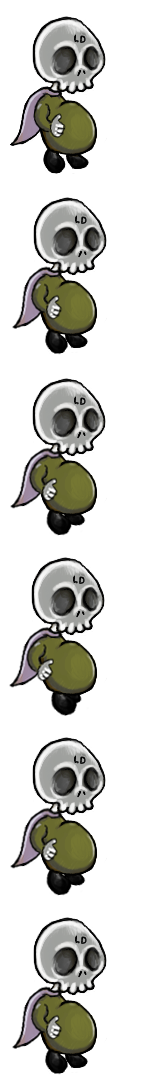
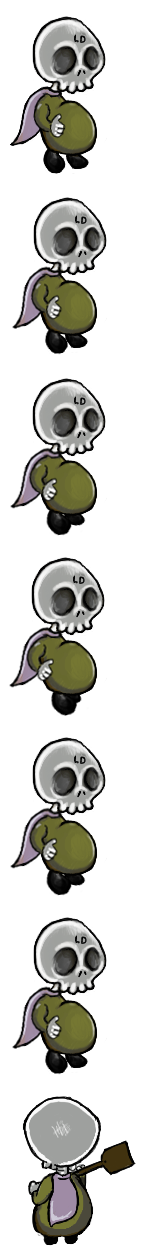
heart not working, but lost soul is... odd

diff --git a/src/game-scene.js b/src/game-scene.js
@@ -6,7 +6,9 @@ var Player = require('./player');
 var Enemy = require('./enemy');
 var MapGen = require('./mapgen');
 var Grave = require('./grave');
+var Heart = require('./heart');
 var Zombie = require('./zombie');
+var LostSoul = require('./lost-soul');
 var Light = require('./light');
 
 var DigTimes = {
@@ -69,7 +71,7 @@ GameScene.prototype.onCreate = function(){
     this.graves = [];
 
     var grave;
-    var contents = ['heart', 'lostsoul', 'zombie', 'nothing'];
+    var contents = ['heart', 'lostsoul', /*'zombie', 'nothing'*/];
     for (var idx = 0; idx < 20; idx++){
         grave = new Grave(
             this.game,
@@ -112,6 +114,8 @@ GameScene.prototype.resolveZ = function(){
             this.sprites[idx].bringToTop();
         }
     }
+
+    if(this.heart) this.heart.bringToTop();
 };
 
 GameScene.prototype.onPlayerCaught = function(){
@@ -147,10 +151,17 @@ GameScene.prototype.getDigArea = function(){
 
 GameScene.prototype.openGrave = function(grave){
     grave.open();
-    if (grave.contents == "zombie"){
-        this.spawnZombie(grave); 
-    } else if (grave.contents == "heart"){
-        this.spawnHeart(grave);
+    console.log("--" + grave.contents + "--");
+    switch(grave.contents){
+        case "zombie":
+            this.spawnZombie(grave);
+            break;
+        case "heart":
+            this.spawnHeart(grave);
+            break;
+        case "lostsoul":
+            this.spawnLostSoul(grave);
+            break;
     }
 };
 
@@ -160,6 +171,19 @@ GameScene.prototype.spawnZombie = function(grave){
     zombie.setPosition(grave.x, grave.y + 100);
     this.sprites.push(zombie);
     this.game.add.existing(zombie);
+};
+
+GameScene.prototype.spawnLostSoul = function(grave){
+    var lostSoul = new LostSoul(this.game);
+    lostSoul.setTarget(this.enemy);
+    lostSoul.setPosition(grave.x, grave.y + 100);
+    this.sprites.push(lostSoul);
+    this.game.add.existing(lostSoul);
+};
+
+GameScene.prototype.spawnHeart = function(grave){
+    this.heart = new Heart(this.game, grave.x, grave.y);
+    this.game.add.existing(this.heart);
 };
 
 module.exports = GameScene;

diff --git a/src/lost-soul.js b/src/lost-soul.js
@@ -1,0 +1,60 @@
+var Phaser = require('phaser');
+
+var LostSoul = function(game){
+    Phaser.Sprite.call(this, game, 0, 0, 'lost-soul', 0);
+    game.physics.enable(this, Phaser.Physics.ARCADE);
+    this.scale.x = this.scale.y = this.baseScale = 0.6;
+    this.anchor.setTo(0.5, 0.5);
+    this.speed = 120;
+
+    this.animations.add('waft', [0, 1, 2, 3], 8, true);
+    this.play('waft');
+};
+
+LostSoul.prototype = Object.create(Phaser.Sprite.prototype);
+LostSoul.prototype.constructor = LostSoul;
+
+LostSoul.prototype.setPosition = function(x, y){
+    this.x = x;
+    this.y = y;
+};
+
+LostSoul.prototype.setTarget = function(obj){
+    this.target = obj;
+};
+
+LostSoul.prototype.update = function(){
+    this.updateSpeed();
+    this.checkOverlap();
+};
+
+LostSoul.prototype.updateSpeed = function(){
+    var delta = {
+        x: this.target.x - this.x,
+        y: this.target.y - this.y + 5
+    };
+
+    var total = Math.abs(delta.x) + Math.abs(delta.y);
+    var ratio = {
+        x: delta.x/total,
+        y: delta.y/total
+    };
+    this.body.velocity.x = this.speed * ratio.x;
+    this.body.velocity.y = this.speed * ratio.y;
+    if (ratio.x < 0){
+        this.scale.x = this.baseScale;
+    } else if(ratio.x > 0){
+        this.scale.x = -this.baseScale;
+    }
+};
+
+LostSoul.prototype.checkOverlap = function(){
+    if(this.overlap(this.target)){
+        this.target.speed *= 0.2;
+        if(!this.deathTimer){
+            this.deathTimer = this.game.time.events.add(5000, this.kill, this);
+        }
+    }
+};
+
+module.exports = LostSoul;

diff --git a/src/enemy.js b/src/enemy.js
@@ -5,6 +5,7 @@ var Enemy = function(game){
     game.physics.enable(this, Phaser.Physics.ARCADE);
     this.scale.x = this.scale.y = this.baseScale = 0.6;
     this.anchor.setTo(0.5, 0.5);
+    this.normalSpeed = 50;
     this.speed = 50;
 
     this.animations.add('walk', [0, 1, 2, 3, 4, 5], 8, true);
@@ -21,7 +22,7 @@ Enemy.prototype.setPosition = function(x, y){
 
 Enemy.prototype.setTarget = function(obj){
     this.target = obj;
-}
+};
 
 Enemy.prototype.update = function(){
     this.updateSpeed();
@@ -37,7 +38,7 @@ Enemy.prototype.updateSpeed = function(){
     var ratio = {
         x: delta.x/total,
         y: delta.y/total
-    }
+    };
     this.body.velocity.x = this.speed * ratio.x;
     this.body.velocity.y = this.speed * ratio.y;
 
@@ -46,6 +47,8 @@ Enemy.prototype.updateSpeed = function(){
     } else if(ratio.x < 0){
         this.scale.x = -this.baseScale;
     }
+
+    this.speed = this.normalSpeed;
 };
 
 module.exports = Enemy;

diff --git a/src/player.js b/src/player.js
@@ -16,7 +16,7 @@ var Player = function(game){
 
     this.animations.add('stand', [0], 12, true);
     this.animations.add('walk', [0, 1, 2, 3, 4, 5], 15, true);
-    this.animations.add('dig', [5], 12, true);
+    this.animations.add('dig', [6], 12, true);
     this.play('stand');
 
     this.scene = game.goScene;
@@ -136,10 +136,7 @@ Player.prototype.stopDig = function(){
 
 Player.prototype.finishDig = function(){
     if(this.digArea.type == "grave"){
-        this.digArea.grave.open();
-        if (this.digArea.grave.contents == "zombie"){
-            this.scene.spawnZombie(this.digArea.grave);
-        }
+        this.scene.openGrave(this.digArea.grave);
     }
     this.stopDig();
 };

diff --git a/src/heart.js b/src/heart.js
@@ -1,0 +1,18 @@
+var Phaser = require('phaser');
+
+var Heart = function(game, x, y){
+    Phaser.Sprite.call(this, game, x, y, 'heart', 0);
+    this.game = game;
+    this.anchor.set(0.5, 0.5);
+    this.tween = game.add.tween(this).to({y: y-100}, 1200, Phaser.Easing.Quadratic.Out, false);
+    this.tween.onComplete.add(function(){
+        this.kill();
+        this.destroy();
+    }, this);
+    this.tween.start();
+};
+
+Heart.prototype = Object.create(Phaser.Sprite.prototype);
+Heart.prototype.constructor = Heart;
+
+module.exports = Heart;

diff --git a/src/assets.js b/src/assets.js
@@ -12,7 +12,9 @@ var assets = {
         ['player', 'img/protagonist_walk.png', 144, 180],
         ['enemy', 'img/villain_walk.png', 144, 180],
         ['zombie', 'img/zombie.png', 96, 163],
+        ['lost-soul', 'img/lost-soul.png', 120, 160],
         ['grave', 'img/grave.png', 195, 319],
+        ['heart', 'img/heart.png', 79, 99],
         ['timer', 'img/timer.png', 32, 32],
         ['particle-map', 'img/particle-map.png', 3, 3]
     ],
